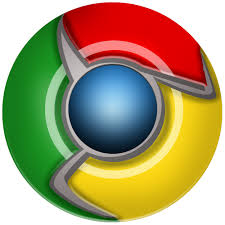
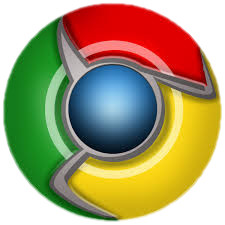
Better round chrome

diff --git a/public/js/nuttyninja_screen.js b/public/js/nuttyninja_screen.js
@@ -16,7 +16,7 @@ socket.on('controller-input', function(data) {
 });
 
 var Shuriken = function(name) {
-	this.image = new createjs.Bitmap('/images/chrome.jpg');
+	this.image = new createjs.Bitmap('/images/chrome.png');
 
 	this.image.regX = 225 / 2.0;
 	this.image.regY = 225 / 2.0;
